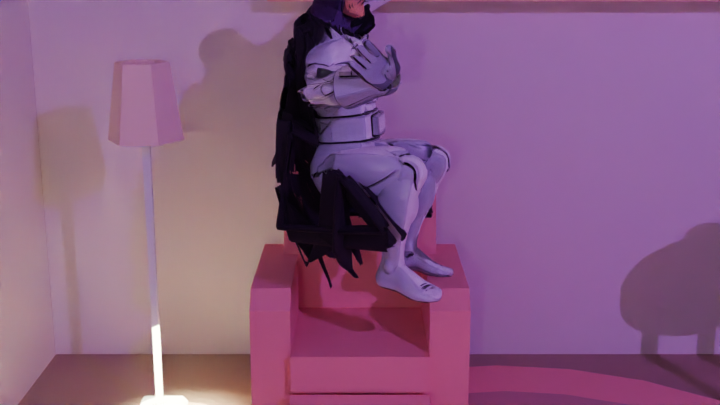
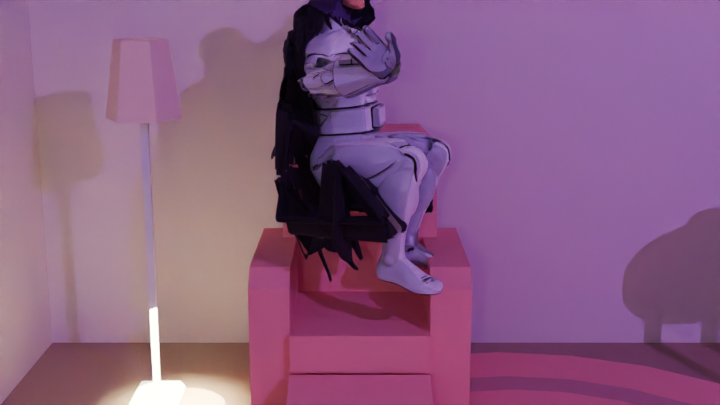
Sitting fix: DROP him into the chair (owner 2026-10-19)
He was perched ON TOP of the cushion (butt_min_z=0.3698=seat top).
Dropped 3.5cm -> butt_min_z=0.3350, ass compresses INTO the cushion.
Pelvis location keyframes shifted on all 81 frames (pelvis only;
shifting root too would double the drop). Facing kept at -X,
back toward the +X wall, aligned with the chair (verified by
measurement: front camera at -X sees his face).

Replaced final_front.png / final_threeq.png with the dropped renders
(2 files modified, 0 deleted). Added drop_into_chair.py (repro script).

No deletions.

diff --git a/3d-assets/cape-jones-rig/sitting-canon/drop_into_chair.py b/3d-assets/cape-jones-rig/sitting-canon/drop_into_chair.py
@@ -1,0 +1,82 @@
+"""DROP HIM INTO THE CHAIR. Butt 0.370 -> 0.335 (3.5cm cushion compression).
+
+Owner 2026-10-19: "you have him standing on his seat... just sit him down in
+the chair with his back against the chair and his ass sitting on the fucking
+cushion seat of the chair, that's literally it."
+
+Method: shift pelvis location keyframes ONLY (pelvis is relative to root;
+shifting root too would double the drop). Calibrate pelvis local axes ->
+world numerically, convert the world-Z delta, apply to all 81 frames.
+"""
+import bpy
+from mathutils import Matrix, Vector
+
+bpy.ops.wm.open_mainfile(filepath="/home/hatch/workspace/sitcanon-work/scene_sit.blend")
+scn = bpy.context.scene
+rig = bpy.data.objects.get("CapeJones_Rig")
+body = bpy.data.objects.get("CapeJones_Body")
+pb = rig.pose.bones['pelvis']
+
+TARGET_BUTT_Z = 0.335  # 3.5cm below seat top (0.370) = cushion compression
+MID = 40
+scn.frame_set(MID)
+bpy.context.view_layer.update()
+
+def butt_min_z():
+    bpy.context.view_layer.update()
+    deps = bpy.context.evaluated_depsgraph_get()
+    bm = body.evaluated_get(deps)
+    mesh = bm.to_mesh()
+    gP = body.vertex_groups.get('pelvis').index
+    gT = {body.vertex_groups.get(x).index for x in ('thigh_L', 'thigh_R') if body.vertex_groups.get(x)}
+    zs = []
+    for v in mesh.vertices:
+        gs = {g.group for g in v.groups}
+        if gP in gs or gs & gT:
+            w = bm.matrix_world @ v.co
+            if w.z < 0.6:
+                zs.append(w.z)
+    bm.to_mesh_clear()
+    return min(zs) if zs else None
+
+# MEASURE FIRST at posed state (do not touch bones before measuring)
+cur_bz = butt_min_z()
+print(f"CURRENT butt_min_z={cur_bz:.4f} target={TARGET_BUTT_Z}", flush=True)
+
+# calibrate pelvis location axes -> world
+def pelvis_head_world():
+    bpy.context.view_layer.update()
+    return (rig.matrix_world @ pb.head).copy()
+pb.location = Vector((0, 0, 0))
+bpy.context.view_layer.update()
+p0 = pelvis_head_world()
+Bcols = []
+for i in range(3):
+    e = Vector((0, 0, 0)); e[i] = 1.0
+    pb.location = e
+    bpy.context.view_layer.update()
+    Bcols.append(pelvis_head_world() - p0)
+Bpel = Matrix((Bcols[0], Bcols[1], Bcols[2])).transposed()
+Binv = Bpel.inverted()
+
+dz = TARGET_BUTT_Z - cur_bz
+local_delta = Binv @ Vector((0, 0, dz))
+print(f"dz={dz:.4f} local_delta={tuple(round(v, 4) for v in local_delta)}", flush=True)
+
+# shift pelvis location keyframes ONLY
+act = rig.animation_data.action
+moved = 0
+for fc in act.fcurves:
+    if fc.data_path == 'pose.bones["pelvis"].location':
+        for kp in fc.keyframe_points:
+            kp.co.y += local_delta[fc.array_index]
+            kp.handle_left.y += local_delta[fc.array_index]
+            kp.handle_right.y += local_delta[fc.array_index]
+            moved += 1
+print(f"shifted {moved} pelvis keyframes", flush=True)
+
+scn.frame_set(MID)
+bpy.context.view_layer.update()
+print(f"NEW butt_min_z={butt_min_z():.4f}", flush=True)
+bpy.ops.wm.save_as_mainfile(filepath="/home/hatch/workspace/sitcanon-work/scene_sit_dropped.blend")
+print("SAVED scene_sit_dropped.blend", flush=True)
